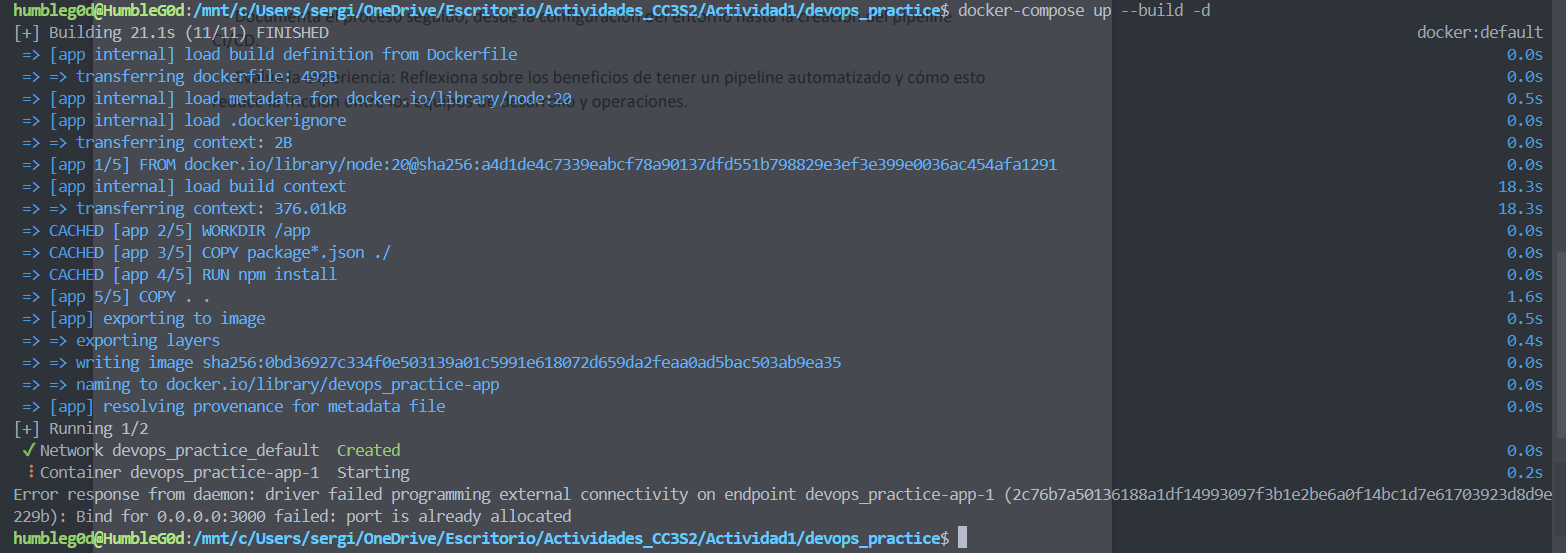
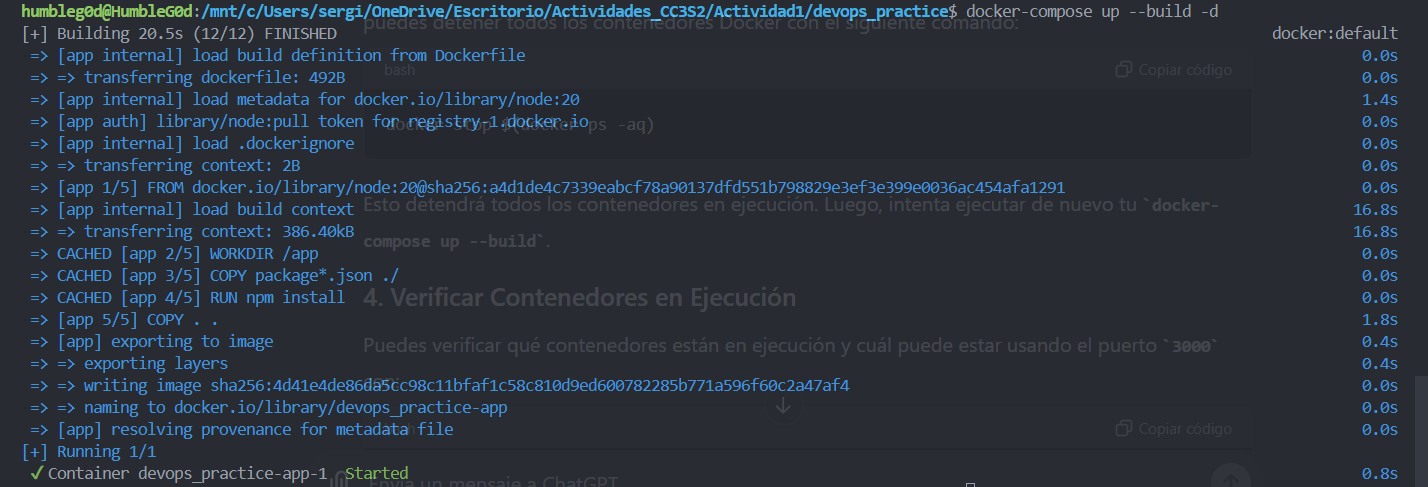
Update dp.md

diff --git a/Actividad1/devops_practice/dp.md b/Actividad1/devops_practice/dp.md
@@ -1,37 +1,41 @@
 ## Creancion del entor CI / CD
 ### Configuracion del entorno CI
 1. **Iniciamos el proyecto Node.js**
-Creamos nuestra carpeta `devops_practice` , dentro de ella ejecutamos el comando
+
+    Creamos nuestra carpeta `devops_practice` , dentro de ella ejecutamos el comando
 
     ```shell
     npm init -y
     ```
     para iniciar nuestro proyecto.
 
-![](https://github.com/HumbleG0d/Actividades_CC3S2/blob/main/Actividad1/assets/init.png)
+    ![](https://github.com/HumbleG0d/Actividades_CC3S2/blob/main/Actividad1/assets/init.png)
 
 2. **Instalación de las dependencias necesarias**
-Instalamos el framework `Express` de Node y tambien `Jest` para las pruebas.
+
+    Instalamos el framework `Express` de Node y tambien `Jest` para las pruebas.
 
     ```shell
      npm install express jest 
     ```
-![](https://github.com/HumbleG0d/Actividades_CC3S2/blob/main/Actividad1/assets/express.png)
 
-Tambien instalamos la biblioteca `supertest` para las pruebas automatizadas ya que usamos Express.
+    ![](https://github.com/HumbleG0d/Actividades_CC3S2/blob/main/Actividad1/assets/express.png)
 
-```shell
-    npm install supertest --save-dev
-```
+    Tambien instalamos la biblioteca `supertest` para las pruebas automatizadas ya que usamos Express.
 
-![](https://github.com/HumbleG0d/Actividades_CC3S2/blob/main/Actividad1/assets/supertest.png)
+    ```shell
+        npm install supertest --save-dev
+    ```
+
+    ![](https://github.com/HumbleG0d/Actividades_CC3S2/blob/main/Actividad1/assets/supertest.png)
 
 3. **Creamos la estructura de nuestro proyecto**
 
-![](https://github.com/HumbleG0d/Actividades_CC3S2/blob/main/Actividad1/assets/estructura.png)
+    ![](https://github.com/HumbleG0d/Actividades_CC3S2/blob/main/Actividad1/assets/estructura.png)
 
 4. **Implementación la API REST**
-Creamos una aplicación web basica `app.js`. Esta aplicación muestra el texto `Hello World` al recibir una solicitud  **GET**.
+
+    Creamos una aplicación web basica `app.js`. Esta aplicación muestra el texto `Hello World` al recibir una solicitud  **GET**.
 
     ```js
     const express = require('express');
@@ -89,12 +93,14 @@ Creamos una aplicación web basica `app.js`. Esta aplicación muestra el texto `
         ```
 
 6. **Modificamos el archivo package.json**
-Cambiamos el valor de `"test": "jest"` , además agregamos `"devDependencies"` dentro de esta colocamos la version de `"supertest"`.
 
-![](https://github.com/HumbleG0d/Actividades_CC3S2/blob/main/Actividad1/assets/package.png)
+    Cambiamos el valor de `"test": "jest"` , además agregamos `"devDependencies"` dentro de esta colocamos la version de `"supertest"`.
+
+    ![](https://github.com/HumbleG0d/Actividades_CC3S2/blob/main/Actividad1/assets/package.png)
 
 7. **Ejecucion del test y el servidor**
-Observamos que las prueba pasa. Tambien podemos ejecutar la prueba usando el siguiente comando
+
+    Observamos que las prueba pasa. Tambien podemos ejecutar la prueba usando el siguiente comando
     ```shell
         npx jest
     ```
@@ -113,7 +119,7 @@ Observamos que las prueba pasa. Tambien podemos ejecutar la prueba usando el sig
 
 1. **Creamos la estructura para GitHub Actions**
 
-![](https://github.com/HumbleG0d/Actividades_CC3S2/blob/main/Actividad1/assets/githubAc.png)
+    ![](https://github.com/HumbleG0d/Actividades_CC3S2/blob/main/Actividad1/assets/githubAc.png)
 
 2. **Definimos el flujo de trabajo**
 
@@ -168,11 +174,12 @@ Observamos que las prueba pasa. Tambien podemos ejecutar la prueba usando el sig
     ```
 
 
-![](https://github.com/HumbleG0d/Actividades_CC3S2/blob/main/Actividad1/assets/build.png)
+    ![](https://github.com/HumbleG0d/Actividades_CC3S2/blob/main/Actividad1/assets/build.png)
 
 ### Configuracion del entorno CD
 
 1. **Crea un archivo Docker para contenerizar la aplicación**
+    
     Creamos un Dockerfile para crear una imagen de Docker para nuestra aplicación.
 
     - Utilizamos la imagen ofcial de Node.js version 20 con la instrucción `Fron node:20`.
@@ -197,27 +204,31 @@ Observamos que las prueba pasa. Tambien podemos ejecutar la prueba usando el sig
         CMD ["node", "src/server.js"]
     ```
 2. **Construimos la imagen de Docker**
-Para ello hacemos uso del siguiente comando.
+
+    Para ello hacemos uso del siguiente comando.
     ```shell
         docker build -t devops_practice .
     ```
 
-![](https://github.com/HumbleG0d/Actividades_CC3S2/blob/main/Actividad1/assets/dockerBuild.png)
+    ![](https://github.com/HumbleG0d/Actividades_CC3S2/blob/main/Actividad1/assets/dockerBuild.png)
 
 
 3. **Corremos el contenedor localmente**
-Para ello hacemos uso del siguiente comando.
+
+    Para ello hacemos uso del siguiente comando.
  
     ```shell
          docker run -p 3000:3000 devops_practice
     ```
 
-![](https://github.com/HumbleG0d/Actividades_CC3S2/blob/main/Actividad1/assets/dockerRun.png)
+    ![](https://github.com/HumbleG0d/Actividades_CC3S2/blob/main/Actividad1/assets/dockerRun.png)
 
 
 ### Automatización del despliegue con GitHub Actions:
 1. **Actualizamos el archivo `ci.yml`**
+
     Agregamos la construcción y despliegue de la imagen docker
+    
     ```yml
         - name: 'Buil Docker image'
         run: docker build -t devops_practice .
@@ -225,20 +236,23 @@ Para ello hacemos uso del siguiente comando.
         run: docker run -d -p 3000:3000 devops_practice
     ```
 
-![](https://github.com/HumbleG0d/Actividades_CC3S2/blob/main/Actividad1/assets/GitHubDoc.png)
+    ![](https://github.com/HumbleG0d/Actividades_CC3S2/blob/main/Actividad1/assets/GitHubDoc.png)
 
 2. **Verificamos que la aplicación se haya desplegado correctamente de manera local usando Docker**
-Para ello accedemos a `http://localhost:3000` en nuestro browser.
 
-![](https://github.com/HumbleG0d/Actividades_CC3S2/blob/main/Actividad1/assets/localhost.png)
+    Para ello accedemos a `http://localhost:3000` en nuestro browser.
+
+    ![](https://github.com/HumbleG0d/Actividades_CC3S2/blob/main/Actividad1/assets/localhost.png)
 
 ### Automatización
 1. **Automatizamos la configuración y gestión del entorno local usando Docker Compose**
-Para ello creamos una archivo `docker-compose.yml`. 
-- En este archivo definimos la version de Docker Compose con la clave `version` 
-- Construimos la imagen usando el Dockerfile en el directorio actual con la clave `build: .`
-- Mapeamos el puerto 3000 del host al puerto 3000 del contenedor
-- Definimos la variable de entorno para el contenedor con la clave `environments`
+
+    Para ello creamos una archivo `docker-compose.yml`. 
+    - En este archivo definimos la version de Docker Compose con la clave `version` 
+    - Construimos la imagen usando el Dockerfile en el directorio actual con la clave `build: .`
+    - Mapeamos el puerto 3000 del host al puerto 3000 del contenedor
+    - Definimos la variable de entorno para el contenedor con la clave `environments`
+
     ```yml
         version: '3.8'
         services:
@@ -250,9 +264,12 @@ Para ello creamos una archivo `docker-compose.yml`.
             - NODE_ENV=production
     ```
 2. **Corremos la aplicacion usando Docker Compose**
-Para ello ejecutamos el siguiente comando:
+
+    Para ello ejecutamos el siguiente comando:
     ```shell
     docker-compose up --build -d
     ```
 
-![](https://github.com/HumbleG0d/Actividades_CC3S2/blob/main/Actividad1/assets/DockerCompose.png)
+    Observamos se crearon correctamente las imágenes necesarias y se levanto correctamente el contenedor definido en nuestro archivo  `docker-compose.yml`
+
+    ![](https://github.com/HumbleG0d/Actividades_CC3S2/blob/main/Actividad1/assets/DockerCompose.png)
